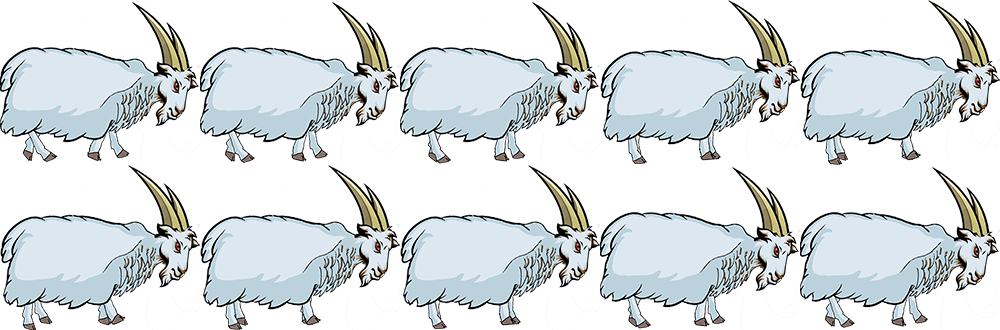
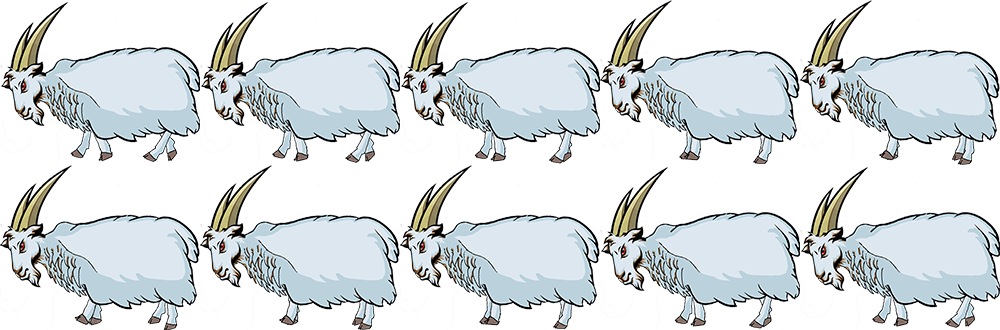
Swap black white

diff --git a/CattleBattle/CattleBattle/GameScene.swift b/CattleBattle/CattleBattle/GameScene.swift
@@ -24,7 +24,6 @@ class GameScene: SKScene {
     var rightPlayerScoreNode  = SKLabelNode()
     let READY_BUTTON_NAME = "READY_BUTTON"
     
-    var dir = 1
     var leftReadyButton: [SKNode] = []
     var rightReadyButton: [SKNode] = []
     
@@ -98,10 +97,9 @@ class GameScene: SKScene {
             var node = self.nodeAtPoint(touch.locationInNode(self))
            
             if node.name != nil && node.name! == READY_BUTTON_NAME {
-                print ("click")
                 self.receiveReadyButtonClick(node)
-                
             }
+            
             if node.name != nil && node.name! == "arrow" {
                 var arrow = node as ArrowNode
                 if arrow.side == .LEFT {
@@ -110,7 +108,7 @@ class GameScene: SKScene {
                         if self.gameModel.isCattleReady(.LEFT, index: gameModel.leftSelectedCattleIndex) {
                             var tmp : CGFloat = (CGFloat)(arrow.index)
                             var y = (CGFloat)(LAUNCH_Y_TOP - LAUNCH_Y_GAP * tmp)
-                            self.addObject(CGPoint(x: LEFT_LAUNCH_X , y: y), direction: 1, size: tmpType, side : .LEFT)
+                            self.addObject(CGPoint(x: LEFT_LAUNCH_X , y: y), size: tmpType, side : .LEFT)
                             gameModel.launchCattle(.LEFT, index: self.gameModel.leftSelectedCattleIndex)
                             self.replaceReadyButton(.LEFT, index: self.gameModel.leftSelectedCattleIndex)
                             self.gameModel.clearLeftReadyIndex()
@@ -124,7 +122,7 @@ class GameScene: SKScene {
                         if self.gameModel.isCattleReady(.RIGHT, index: gameModel.rightSelectedCattleIndex) {
                             var tmp : CGFloat = (CGFloat)(arrow.index)
                             var y = (CGFloat)(LAUNCH_Y_TOP - LAUNCH_Y_GAP * tmp)
-                            self.addObject(CGPoint(x: RIGHT_LAUNCH_X , y: y), direction: -1, size: tmpType, side : .RIGHT)
+                            self.addObject(CGPoint(x: RIGHT_LAUNCH_X , y: y), size: tmpType, side : .RIGHT)
                             gameModel.launchCattle(.RIGHT, index: self.gameModel.rightSelectedCattleIndex)
                             self.replaceReadyButton(.RIGHT, index: self.gameModel.rightSelectedCattleIndex)
                             self.gameModel.clearRightReadyIndex()
@@ -144,19 +142,11 @@ class GameScene: SKScene {
             var node = i as SKNode
             
             if node.name != nil && node.name == "leftRunning" {
-                var runningNode = node as AnimalNode
-                var animal = Animal(color: Animal.Color.WHITE, size: runningNode.animalSize, status: .DEPLOYED)
-                runningNode.physicsBody!.velocity.dx = -300 * animal.getImageMass() / 10
-                
                 if node.position.x < GAME_VIEW_LEFT_BOUNDARY || node.position.x > GAME_VIEW_RIGHT_BOUNDARY {
                     node.removeFromParent()
                 }
             }
             if node.name != nil && node.name == "rightRunning" {
-                var runningNode = node as AnimalNode
-                var animal = Animal(color: Animal.Color.WHITE, size: runningNode.animalSize, status: .DEPLOYED)
-                runningNode.physicsBody!.velocity.dx = 300 * animal.getImageMass() / 10
-                
                 if node.position.x < GAME_VIEW_LEFT_BOUNDARY  || node.position.x > GAME_VIEW_RIGHT_BOUNDARY {
                     node.removeFromParent()
                 }
@@ -164,8 +154,8 @@ class GameScene: SKScene {
         }
     }
     
-    func addObject(location : CGPoint, direction : Int, size : Animal.Size, side : GameModel.Side) {
-        let sprite = AnimalNode.getAnimal(location, direction: direction, size : size, side : side)
+    func addObject(location: CGPoint, size: Animal.Size, side: GameModel.Side) {
+        var sprite = AnimalNode(location: location, size: size, side: side)
         self.addChild(sprite)
     }
     
@@ -197,7 +187,7 @@ class GameScene: SKScene {
         return true
     }
     
-    func setGameModel (model : GameModel) {
+    func setGameModel(model : GameModel) {
         self.gameModel = model
     }
     

diff --git a/CattleBattle/CattleBattle/AnimalNode.swift b/CattleBattle/CattleBattle/AnimalNode.swift
@@ -11,38 +11,32 @@ import SpriteKit
 
 class AnimalNode: SKSpriteNode {
     
-    var animalSize: Animal.Size = Animal.Size.TINY
+    internal var animal = Animal(color: .WHITE, size: .TINY, status: .DEPLOYED)
     
-    class func getAnimal(location: CGPoint, direction: Int, size: Animal.Size, side : GameModel.Side) -> AnimalNode {
-        var color = Animal.Color.WHITE
+    init(location: CGPoint, size: Animal.Size, side: GameModel.Side) {
+        super.init()
+
+        var color: Animal.Color
         if side == .LEFT {
+            color = .WHITE
+        } else {
             color = .BLACK
         }
+        self.animal = Animal(color: color, size: size, status: .DEPLOYED)
+        self.texture = self.animal.getTexture()
         
-        var animal = Animal(color: color, size: size, status: .DEPLOYED)
+        self.size = self.texture!.size()
+        self.xScale = animal.getImageScale().0
+        self.yScale = animal.getImageScale().1
+        self.position = location
         
-        let sprite = AnimalNode(texture: animal.getTexture())
-        sprite.animalSize = size
+        self.name = side.rawValue + "Running"
+        
+        var imageSize = CGSizeMake(self.size.width + (CGFloat)(3), self.size.height + (CGFloat)(3))
         
         
-        sprite.xScale = animal.getImageScale().0
-        sprite.yScale = animal.getImageScale().1
-        
-        sprite.position = location
-        if direction == 1 {
-            sprite.name = "rightRunning"
-        } else {
-            sprite.name = "leftRunning"
-        }
-        
-       // var tex = animal.getTexture()
-        
-        //       sprite.physicsBody = SKPhysicsBody(texture: tex, size: sprite.size)
-        var imageSize = CGSizeMake(sprite.size.width + (CGFloat)(3), sprite.size.height + (CGFloat)(3))
-        
-        //        var imageSize = CGSizeMake((CGFloat)(200),(CGFloat)(200))
-        sprite.physicsBody = SKPhysicsBody(rectangleOfSize:imageSize)
-        if let physics = sprite.physicsBody {
+        self.physicsBody = SKPhysicsBody(rectangleOfSize: imageSize)
+        if let physics = self.physicsBody {
             physics.affectedByGravity = false
             physics.allowsRotation = false
             physics.dynamic = true
@@ -51,29 +45,22 @@ class AnimalNode: SKSpriteNode {
             physics.angularDamping = 0
             physics.restitution = 0
             physics.friction = 0
-            
-            //            physics.velocity.dx = 50
-            
-            //            time = NSTimeInterval(
-            //            var mvAction = SKAction.moveByX((CGFloat)(direction*30), y: 0, duration: (NSTimeInterval)(animal.getImageMass())/10)
-            //            var mvforeverAction = SKAction.repeatActionForever(mvAction)
-            //            sprite.runAction(mvforeverAction)
-            
-            physics.velocity.dx = (CGFloat)(direction) * 300 * animal.getImageMass()/10
+            if animal.color == .WHITE {
+                physics.velocity.dx = 300 * animal.getImageMass()/10
+            } else {
+                physics.velocity.dx = -300 * animal.getImageMass()/10
+            }
         }
-
-        var goatRunningFrames = animal.getDeployedTexture()
-        //add running action
-        sprite.runAction(SKAction.repeatActionForever(
-            SKAction.animateWithTextures(goatRunningFrames,
-                timePerFrame: 0.2,
-                resize: false,
-                restore: true)),
-            withKey:"runningGoat")
         
-        return sprite
+        var repeatedAction = SKAction.animateWithTextures(animal.getDeployedTexture(), timePerFrame: 0.2)
+        self.runAction(SKAction.repeatActionForever(repeatedAction))
     }
     
-    
-    
+    override init(texture: SKTexture!, color: UIColor!, size: CGSize) {
+        super.init(texture: texture, color: color, size: size)
+    }
+
+    required init?(coder aDecoder: NSCoder) {
+        super.init(coder: aDecoder)
+    }
 }

diff --git a/CattleBattle/CattleBattle/LoadingNode.swift b/CattleBattle/CattleBattle/LoadingNode.swift
@@ -11,12 +11,6 @@ import SpriteKit
 
 class LoadingNode: SKSpriteNode {
     
-    let prob_size1 = 0.2
-    let prob_size2 = 0.2
-    let prob_size3 = 0.2
-    let prob_size4 = 0.2
-    let prob_size5 = 0.2
-    
     var currentType : Animal.Size = .TINY
     
     
@@ -66,6 +60,7 @@ class LoadingNode: SKSpriteNode {
         
         var generatingType : Animal.Size
         var rand = Double(Float(arc4random()) / Float(UINT32_MAX))
+
         if rand < 0.2 {
             generatingType = .TINY
         } else if rand < 0.4 {

diff --git a/CattleBattle/CattleBattle/Animal.swift b/CattleBattle/CattleBattle/Animal.swift
@@ -25,6 +25,7 @@ class Animal {
         case HUGE = "5"
         
         internal static let allSizes = [TINY, SMALL, MEDIUM, LARGE, HUGE]
+        internal static let probability = [1, 1, 1, 1, 1]
     }
     
     enum Status: String {
